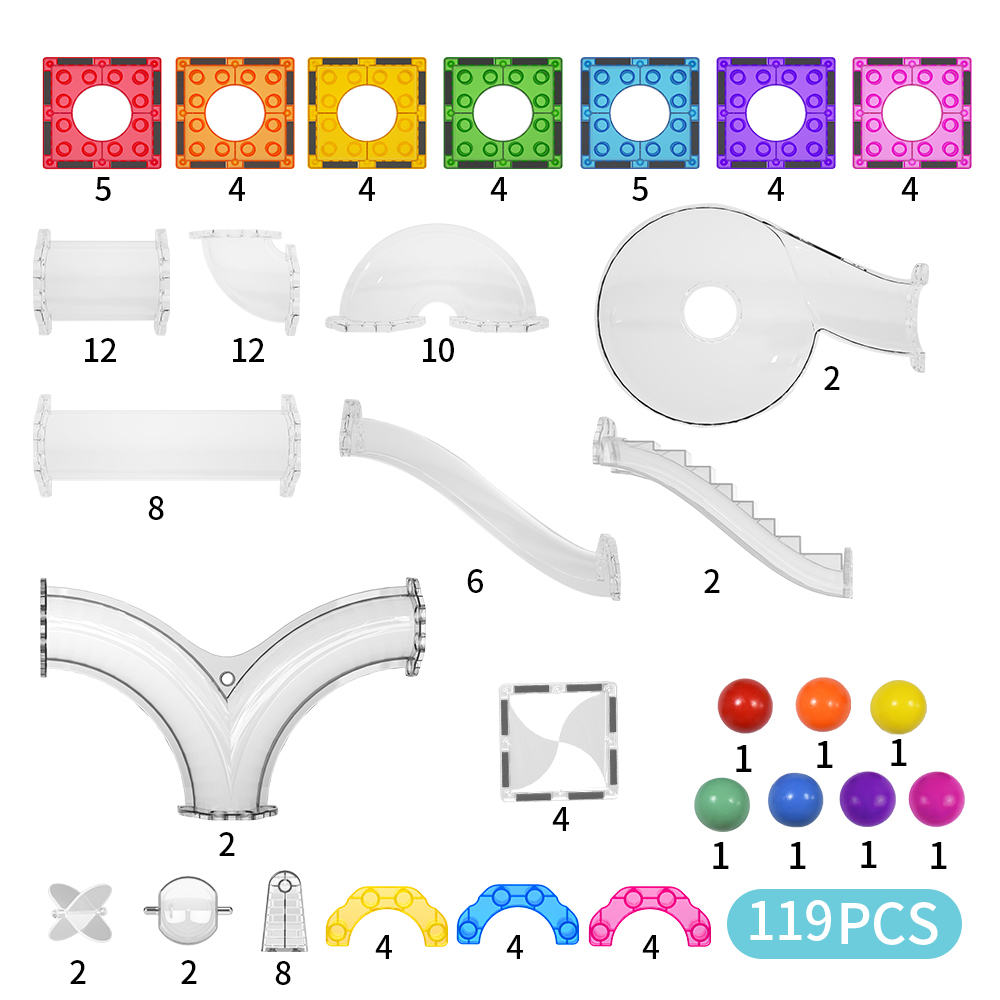
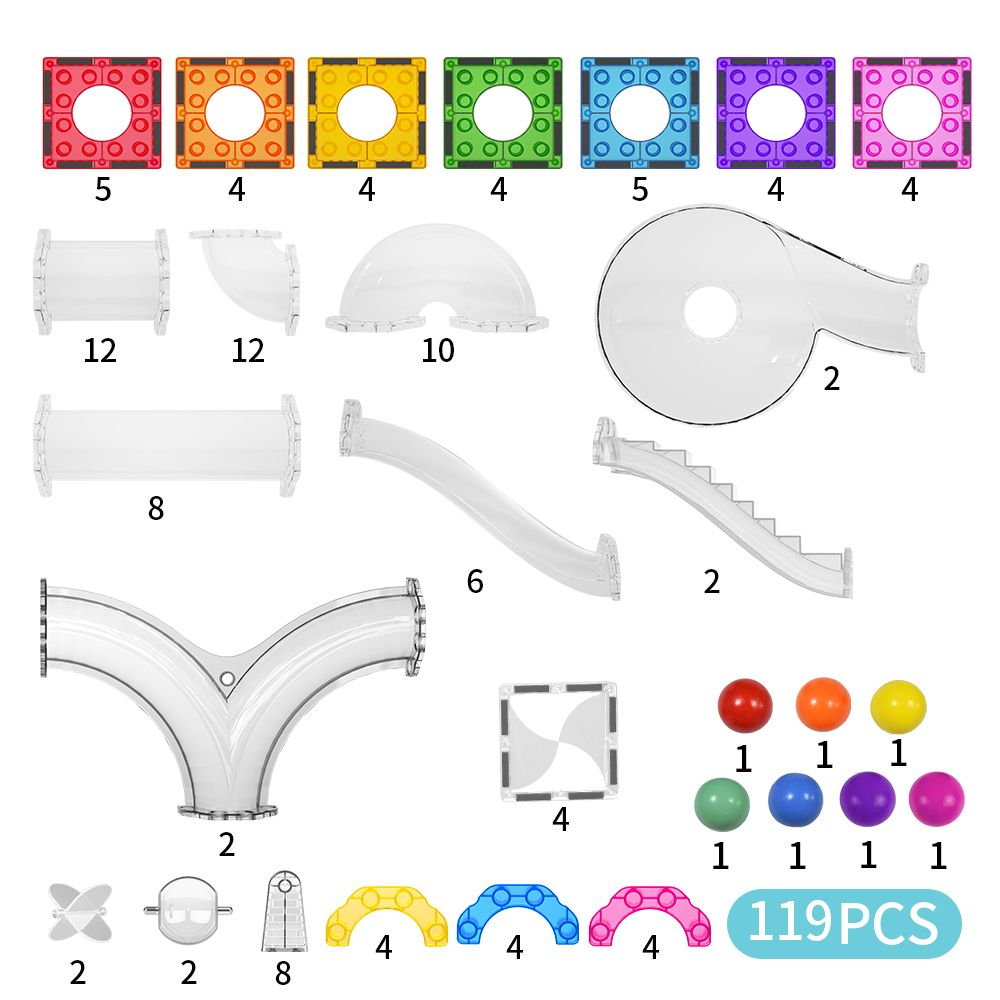
W289 fixes: contrast (OEM footer, capability tags, fact cards, home process numbers), compress 5 large images, Product JSON-LD on 11 SKU pages
Not for merge until Ryan approves.

diff --git a/oem-magnetic-tiles.html b/oem-magnetic-tiles.html
@@ -164,7 +164,7 @@
     <link rel="stylesheet" href="assets/oem-v1-2/page.css?v=b668d671befc">
     <script src="assets/oem-v1-2/inquiry-r5.js?v=b62694724359" defer></script>
     <script src="assets/oem-v1-2/page.js?v=f94a2d02e296" defer></script>
-      <link rel="stylesheet" href="assets/oem-v1-2/finish.css?v=48a272899440">
+      <link rel="stylesheet" href="assets/oem-v1-2/finish.css?v=w300-contrast">
     <link rel="stylesheet" href="assets/oem-v1-2/layout-v14.css?v=4cbe92c7dcf8">
   <link rel="stylesheet" href="assets/oem-v1-4/content.css?v=0086bd145b55"><link rel="stylesheet" href="assets/oem-v1-4/shape-options.css?v=480436e99ee8"><script src="assets/oem-v1-4/shape-options.js?v=3f01ebc3ad3e" defer></script>
     <link rel="stylesheet" href="product-options.css?v=335672091423">
@@ -267,7 +267,7 @@
     </div>
     <figure class="shape-figure">
       <button type="button" class="shape-open shape-chart-button" aria-label="Enlarge the complete rivet-free and riveted magnetic tile shapes and dimensions chart" aria-haspopup="dialog">
-        <img src="assets/oem-v1-4/shape-options-rivet-construction.webp" width="3000" height="3094" loading="lazy" decoding="async" alt="Rivet-free magnetic tiles above and magnetic tiles with rivets below, showing original product shapes and dimension labels.">
+        <img src="assets/oem-v1-4/shape-options-rivet-construction.webp" width="1600" height="1650" loading="lazy" decoding="async" alt="Rivet-free magnetic tiles above and magnetic tiles with rivets below, showing original product shapes and dimension labels.">
       </button>
       <figcaption>Tap to enlarge and view dimensions</figcaption>
     </figure><dialog id="oem-shape-dialog" aria-labelledby="oem-shape-dialog-title" aria-describedby="oem-shape-dialog-help">
@@ -280,7 +280,7 @@
       <p id="oem-shape-dialog-help">Scroll to explore shapes and dimension labels at the original image resolution.</p>
     </div>
     <div class="shape-scroll" tabindex="0" role="region" aria-label="Scrollable shape chart">
-      <img src="assets/oem-v1-4/shape-options-rivet-construction.webp" width="3000" height="3094" alt="Rivet-free and riveted magnetic tile shapes with construction categories and dimensions.">
+      <img src="assets/oem-v1-4/shape-options-rivet-construction.webp" width="1600" height="1650" alt="Rivet-free and riveted magnetic tile shapes with construction categories and dimensions.">
     </div>
     <p class="shape-dialog-source">Illustrative reference. Product specifications, availability, and compatibility are confirmed by model and project.</p></dialog></div><div class="oem-capability-grid"><p class="concise-capabilities-label">Customization options:</p><div><span>01</span><p><b>OEM &amp; ODM</b><small>Project pathways</small></p></div><div><span>02</span><p><b>Private Label</b><small>Logo and artwork</small></p></div><div><span>03</span><p><b>Packaging</b><small>Format and design</small></p></div><div><span>04</span><p><b>Set Configuration</b><small>Shapes and components</small></p></div><div><span>05</span><p><b>Custom Colors</b><small>Product-based review</small></p></div><div><span>06</span><p><b>Existing Accessories</b><small>Selected combinations</small></p></div></div>
             <div class="oem-conditional"><p>Development subject to review:</p><span>New accessories, structures, and tooling or molds require feasibility, target-market, testing, quantity, commercial, and IP review.</span></div>

diff --git a/products/d10-c-large-magnetic-tiles.html b/products/d10-c-large-magnetic-tiles.html
@@ -130,6 +130,7 @@
 }</script>
 <link rel="stylesheet" href="play-system.css?v=9b7e77e98306">
 <link rel="stylesheet" href="conversion-trust.css?v=a1135592aea4">
+<script type="application/ld+json">{"@context": "https://schema.org", "@type": "Product", "@id": "https://www.dudubaotoys.com/products/d10-c-large-magnetic-tiles.html#product", "name": "D10-C 219-Piece Large Magnetic Tile Set", "sku": "D10-C", "mpn": "D10-C", "description": "Source the DUDUBAO D10-C 219-piece rainbow magnetic construction set. Review configuration, wholesale or private-label MOQ, samples and packaging.", "image": "https://www.dudubaotoys.com/assets/magnetic-tiles-featured/d10-c-960.webp", "url": "https://www.dudubaotoys.com/products/d10-c-large-magnetic-tiles.html", "category": "Toys & Games > Toys > Building Toys > Magnetic Building Toys", "brand": {"@type": "Brand", "name": "DUDUBAO"}, "manufacturer": {"@type": "Organization", "@id": "https://www.dudubaotoys.com/#organization", "name": "DUDUBAO", "url": "https://www.dudubaotoys.com/"}}</script>
 </head>
 <body class="buyer-page">
 <a class="buyer-skip" href="products/d10-c-large-magnetic-tiles.html#buyer-main">Skip to content</a>

diff --git a/products/m02-c-mini-magnetic-tiles.html b/products/m02-c-mini-magnetic-tiles.html
@@ -130,6 +130,7 @@
 }</script>
 <link rel="stylesheet" href="play-system.css?v=9b7e77e98306">
 <link rel="stylesheet" href="conversion-trust.css?v=a1135592aea4">
+<script type="application/ld+json">{"@context": "https://schema.org", "@type": "Product", "@id": "https://www.dudubaotoys.com/products/m02-c-mini-magnetic-tiles.html#product", "name": "M02-C 70-Piece MINI Magnetic Tiles", "sku": "M02-C", "mpn": "M02-C", "description": "Explore M02-C 70-piece rainbow MINI magnetic tiles for wholesale sourcing. Review the handled-tin reference, current configuration, samples and packaging.", "image": "https://www.dudubaotoys.com/assets/p1-draft/mini-tin-70.jpg", "url": "https://www.dudubaotoys.com/products/m02-c-mini-magnetic-tiles.html", "category": "Toys & Games > Toys > Building Toys > Magnetic Building Toys", "brand": {"@type": "Brand", "name": "DUDUBAO"}, "manufacturer": {"@type": "Organization", "@id": "https://www.dudubaotoys.com/#organization", "name": "DUDUBAO", "url": "https://www.dudubaotoys.com/"}}</script>
 </head>
 <body class="buyer-page">
 <a class="buyer-skip" href="products/m02-c-mini-magnetic-tiles.html#buyer-main">Skip to content</a>

diff --git a/products/a01-t-magnetic-marble-run.html b/products/a01-t-magnetic-marble-run.html
@@ -130,6 +130,7 @@
 }</script>
 <link rel="stylesheet" href="play-system.css?v=9b7e77e98306">
 <link rel="stylesheet" href="conversion-trust.css?v=a1135592aea4">
+<script type="application/ld+json">{"@context": "https://schema.org", "@type": "Product", "@id": "https://www.dudubaotoys.com/products/a01-t-magnetic-marble-run.html#product", "name": "A01-T 119-Piece Magnetic Marble Run", "sku": "A01-T", "mpn": "A01-T", "description": "Review the DUDUBAO A01-T 119-piece clear-tube magnetic marble run for wholesale and OEM sourcing. Request the current packing list, samples and quote.", "image": "https://www.dudubaotoys.com/assets/p1-draft/a01-t-119.jpg", "url": "https://www.dudubaotoys.com/products/a01-t-magnetic-marble-run.html", "category": "Toys & Games > Toys > Building Toys > Magnetic Building Toys", "brand": {"@type": "Brand", "name": "DUDUBAO"}, "manufacturer": {"@type": "Organization", "@id": "https://www.dudubaotoys.com/#organization", "name": "DUDUBAO", "url": "https://www.dudubaotoys.com/"}}</script>
 </head>
 <body class="buyer-page">
 <a class="buyer-skip" href="products/a01-t-magnetic-marble-run.html#buyer-main">Skip to content</a>

diff --git a/products/d01-magnetic-tiles.html b/products/d01-magnetic-tiles.html
@@ -130,6 +130,7 @@
 }</script>
 <link rel="stylesheet" href="play-system.css?v=9b7e77e98306">
 <link rel="stylesheet" href="conversion-trust.css?v=a1135592aea4">
+<script type="application/ld+json">{"@context": "https://schema.org", "@type": "Product", "@id": "https://www.dudubaotoys.com/products/d01-magnetic-tiles.html#product", "name": "D01 102-Piece Magnetic Tiles", "sku": "D01-C", "mpn": "D01-C", "description": "Compare DUDUBAO D01-C rainbow and D01-M pastel 102-piece magnetic tiles. Request wholesale or private-label pricing, samples and product documentation.", "image": "https://www.dudubaotoys.com/assets/magnetic-tiles-featured/d01-c-960.webp", "url": "https://www.dudubaotoys.com/products/d01-magnetic-tiles.html", "category": "Toys & Games > Toys > Building Toys > Magnetic Building Toys", "brand": {"@type": "Brand", "name": "DUDUBAO"}, "manufacturer": {"@type": "Organization", "@id": "https://www.dudubaotoys.com/#organization", "name": "DUDUBAO", "url": "https://www.dudubaotoys.com/"}}</script>
 </head>
 <body class="buyer-page">
 <a class="buyer-skip" href="products/d01-magnetic-tiles.html#buyer-main">Skip to content</a>

diff --git a/products/a03-t-bell-ball-run.html b/products/a03-t-bell-ball-run.html
@@ -130,6 +130,7 @@
 }</script>
 <link rel="stylesheet" href="play-system.css?v=9b7e77e98306">
 <link rel="stylesheet" href="conversion-trust.css?v=a1135592aea4">
+<script type="application/ld+json">{"@context": "https://schema.org", "@type": "Product", "@id": "https://www.dudubaotoys.com/products/a03-t-bell-ball-run.html#product", "name": "A03-T 73-Piece Bell Ball Run Set", "sku": "A03-T", "mpn": "A03-T", "description": "Explore A03-T, a 73-piece bell ball run set, for wholesale or OEM music magnetic play projects. Discuss configuration, samples, packaging and documentation.", "image": "https://www.dudubaotoys.com/assets/home-brand/a03-960.jpg", "url": "https://www.dudubaotoys.com/products/a03-t-bell-ball-run.html", "category": "Toys & Games > Toys > Building Toys > Magnetic Building Toys", "brand": {"@type": "Brand", "name": "DUDUBAO"}, "manufacturer": {"@type": "Organization", "@id": "https://www.dudubaotoys.com/#organization", "name": "DUDUBAO", "url": "https://www.dudubaotoys.com/"}}</script>
 </head>
 <body class="buyer-page">
 <a class="buyer-skip" href="products/a03-t-bell-ball-run.html#buyer-main">Skip to content</a>

diff --git a/products/m01-c-glitter-mini-magnetic-tiles.html b/products/m01-c-glitter-mini-magnetic-tiles.html
@@ -63,6 +63,7 @@
   ]
 }</script>
 
+<script type="application/ld+json">{"@context": "https://schema.org", "@type": "Product", "@id": "https://www.dudubaotoys.com/products/m01-c-glitter-mini-magnetic-tiles.html#product", "name": "M01-C 28-Piece Glitter MINI Magnetic Tiles", "sku": "M01-C", "mpn": "M01-C", "description": "Explore the M01-C 28-piece glitter MINI tile set for small tabletop builds and portable play. Discuss factory colors, packaging, set options and samples.", "image": "https://www.dudubaotoys.com/assets/products/m01-c/main-1200.webp", "url": "https://www.dudubaotoys.com/products/m01-c-glitter-mini-magnetic-tiles.html", "category": "Toys & Games > Toys > Building Toys > Magnetic Building Toys", "brand": {"@type": "Brand", "name": "DUDUBAO"}, "manufacturer": {"@type": "Organization", "@id": "https://www.dudubaotoys.com/#organization", "name": "DUDUBAO", "url": "https://www.dudubaotoys.com/"}}</script>
 </head><body class="buyer-page">
 <a class="buyer-skip" href="products/m01-c-glitter-mini-magnetic-tiles.html#buyer-main">Skip to content</a>
 <header class="site-header">

diff --git a/products/b07-c-construction-vehicle-set.html b/products/b07-c-construction-vehicle-set.html
@@ -63,6 +63,7 @@
   ]
 }</script>
 
+<script type="application/ld+json">{"@context": "https://schema.org", "@type": "Product", "@id": "https://www.dudubaotoys.com/products/b07-c-construction-vehicle-set.html#product", "name": "B07-C 101-Piece Construction Vehicle Set", "sku": "B07-C", "mpn": "B07-C", "description": "Review the B07-C 101-piece construction set with a crane, vehicles, magnetic figures and building parts. Discuss factory OEM options, samples and documentation.", "image": "https://www.dudubaotoys.com/assets/home-brand/b07-960.webp", "url": "https://www.dudubaotoys.com/products/b07-c-construction-vehicle-set.html", "category": "Toys & Games > Toys > Building Toys > Magnetic Building Toys", "brand": {"@type": "Brand", "name": "DUDUBAO"}, "manufacturer": {"@type": "Organization", "@id": "https://www.dudubaotoys.com/#organization", "name": "DUDUBAO", "url": "https://www.dudubaotoys.com/"}}</script>
 </head><body class="buyer-page">
 <a class="buyer-skip" href="products/b07-c-construction-vehicle-set.html#buyer-main">Skip to content</a>
 <header class="site-header">

diff --git a/products/d15-c-christmas-tree-bell-run.html b/products/d15-c-christmas-tree-bell-run.html
@@ -63,6 +63,7 @@
   ]
 }</script>
 
+<script type="application/ld+json">{"@context": "https://schema.org", "@type": "Product", "@id": "https://www.dudubaotoys.com/products/d15-c-christmas-tree-bell-run.html#product", "name": "D15-C 113-Piece Christmas Tree Bell Run", "sku": "D15-C", "mpn": "D15-C", "description": "Discover the D15-C 113-piece magnetic Christmas tree. Balls strike three bells for chime play. Review components, seasonal gifting, OEM options and samples.", "image": "https://www.dudubaotoys.com/assets/home-brand/tree-960.webp", "url": "https://www.dudubaotoys.com/products/d15-c-christmas-tree-bell-run.html", "category": "Toys & Games > Toys > Building Toys > Magnetic Building Toys", "brand": {"@type": "Brand", "name": "DUDUBAO"}, "manufacturer": {"@type": "Organization", "@id": "https://www.dudubaotoys.com/#organization", "name": "DUDUBAO", "url": "https://www.dudubaotoys.com/"}}</script>
 </head><body class="buyer-page">
 <a class="buyer-skip" href="products/d15-c-christmas-tree-bell-run.html#buyer-main">Skip to content</a>
 <header class="site-header">

diff --git a/products/a01-c-magnetic-marble-run.html b/products/a01-c-magnetic-marble-run.html
@@ -63,6 +63,7 @@
   ]
 }</script>
 
+<script type="application/ld+json">{"@context": "https://schema.org", "@type": "Product", "@id": "https://www.dudubaotoys.com/products/a01-c-magnetic-marble-run.html#product", "name": "A01-C 119-Piece Colourful Magnetic Marble Run", "sku": "A01-C", "mpn": "A01-C", "description": "Explore the A01-C 119-piece colourful tube ball run from our magnetic toy factory. Review components, private-label options, samples and report requests.", "image": "https://www.dudubaotoys.com/assets/p1-draft/a01-c-119.jpg", "url": "https://www.dudubaotoys.com/products/a01-c-magnetic-marble-run.html", "category": "Toys & Games > Toys > Building Toys > Magnetic Building Toys", "brand": {"@type": "Brand", "name": "DUDUBAO"}, "manufacturer": {"@type": "Organization", "@id": "https://www.dudubaotoys.com/#organization", "name": "DUDUBAO", "url": "https://www.dudubaotoys.com/"}}</script>
 </head><body class="buyer-page">
 <a class="buyer-skip" href="products/a01-c-magnetic-marble-run.html#buyer-main">Skip to content</a>
 <header class="site-header">

diff --git a/products/c02-c-rainbow-car-track.html b/products/c02-c-rainbow-car-track.html
@@ -63,6 +63,7 @@
   ]
 }</script>
 
+<script type="application/ld+json">{"@context": "https://schema.org", "@type": "Product", "@id": "https://www.dudubaotoys.com/products/c02-c-rainbow-car-track.html#product", "name": "C02-C 188-Piece Rainbow Car Track", "sku": "C02-C", "mpn": "C02-C", "description": "Explore the C02-C 188-piece rainbow car track with 2 LED cars, pillars and bridges. Review factory customization, samples and documentation requests.", "image": "https://www.dudubaotoys.com/assets/products/c02-c/main-1200.webp", "url": "https://www.dudubaotoys.com/products/c02-c-rainbow-car-track.html", "category": "Toys & Games > Toys > Building Toys > Magnetic Building Toys", "brand": {"@type": "Brand", "name": "DUDUBAO"}, "manufacturer": {"@type": "Organization", "@id": "https://www.dudubaotoys.com/#organization", "name": "DUDUBAO", "url": "https://www.dudubaotoys.com/"}}</script>
 </head><body class="buyer-page">
 <a class="buyer-skip" href="products/c02-c-rainbow-car-track.html#buyer-main">Skip to content</a>
 <header class="site-header">

diff --git a/products/c01-c-rainbow-car-track.html b/products/c01-c-rainbow-car-track.html
@@ -63,6 +63,7 @@
   ]
 }</script>
 
+<script type="application/ld+json">{"@context": "https://schema.org", "@type": "Product", "@id": "https://www.dudubaotoys.com/products/c01-c-rainbow-car-track.html#product", "name": "C01-C 99-Piece Rainbow Car Track", "sku": "C01-C", "mpn": "C01-C", "description": "Explore the C01-C 99-piece rainbow car track with 1 LED car, pillars and bridges. Review factory customization, samples and documentation requests.", "image": "https://www.dudubaotoys.com/assets/products/c01-c/main-1200.webp", "url": "https://www.dudubaotoys.com/products/c01-c-rainbow-car-track.html", "category": "Toys & Games > Toys > Building Toys > Magnetic Building Toys", "brand": {"@type": "Brand", "name": "DUDUBAO"}, "manufacturer": {"@type": "Organization", "@id": "https://www.dudubaotoys.com/#organization", "name": "DUDUBAO", "url": "https://www.dudubaotoys.com/"}}</script>
 </head><body class="buyer-page">
 <a class="buyer-skip" href="products/c01-c-rainbow-car-track.html#buyer-main">Skip to content</a>
 <header class="site-header">
